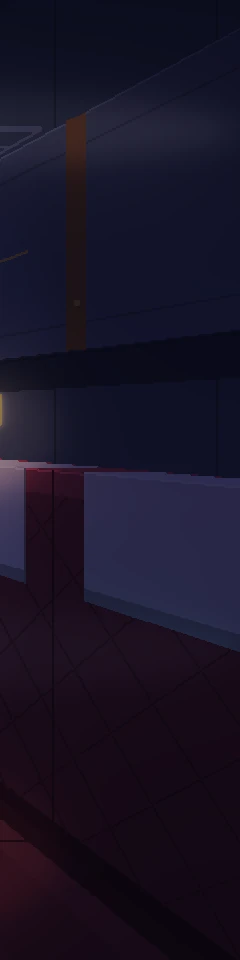
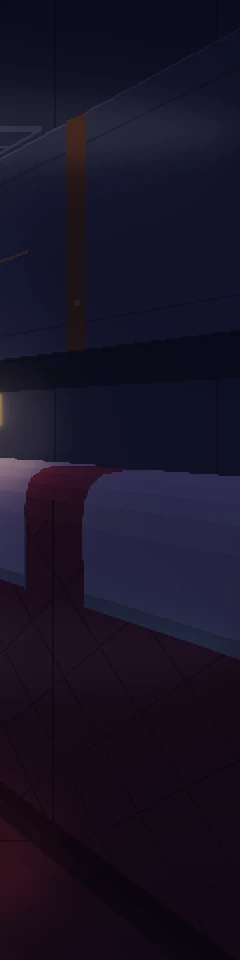
art(1.2): round the benches' edges
The benches were built from flat planes meeting at lines, and read as hard
blocks rather than upholstery. The cushion and the top of the backrest are now
cross-sections swept along the bench: the cushion's top rolls over a soft
shoulder down its front, and the backrest's face rolls over into its top, each
corner taken in several short segments a step lighter or darker than the last.
The headrest covers are draped over the same curve instead of folded at a
right angle, and the hard highlight line along the backrest's top is gone.

diff --git a/tools/art/room.py b/tools/art/room.py
@@ -768,6 +768,33 @@ def floor_and_ceiling(g):
         g.line([ri(P(-HW, C, z)), ri(P(HW, C, z))], mul(CEIL, 0.7))
 
 
+def extrude(g, s, profile, shades, base, z0=None, z1=Z_NEAR):
+    """A cross-section swept along the bench. `profile` is a polyline of (X, Y)
+    points for the right-hand bench (mirrored by s) and `shades` gives one
+    brightness per segment, applied to `base`. Rounding an edge is a matter of
+    giving the profile a few short segments round the corner, each a step
+    lighter or darker: upholstery has no hard edges."""
+    for (xa, ya), (xb, yb), k in zip(profile, profile[1:], shades):
+        receding(g, s * xa, ya, s * xb, yb, mul(base, k), z0, z1)
+
+
+# Cross-sections. The cushion's top runs flat from the backrest, then rolls
+# over a soft shoulder down its front; the backrest's face rolls over into its
+# top the same way.
+CUSHION = [
+    (BACK_FACE, SEAT_H), (BACK_FACE - 0.05, SEAT_H), (BACK_FACE - 0.12, SEAT_H + 0.006),
+    (SEAT_INNER + 0.16, SEAT_H + 0.006), (SEAT_INNER + 0.10, SEAT_H), (SEAT_INNER + 0.06, SEAT_H - 0.006),
+    (SEAT_INNER + 0.03, SEAT_H - 0.02), (SEAT_INNER + 0.01, SEAT_H - 0.045), (SEAT_INNER, SEAT_H - 0.075),
+    (SEAT_INNER + 0.012, SEAT_H - 0.105), (SEAT_INNER + 0.04, SEAT_H - 0.12),
+]
+CUSHION_SHADES = [0.5, 0.82, 0.9, 1.0, 1.14, 1.32, 1.18, 0.94, 0.72, 0.52]
+BACK_ROLL = [
+    (BACK_FACE, BACK_TOP - 0.10), (BACK_FACE + 0.004, BACK_TOP - 0.06), (BACK_FACE + 0.016, BACK_TOP - 0.03),
+    (BACK_FACE + 0.04, BACK_TOP - 0.01), (BACK_FACE + 0.075, BACK_TOP), (ROOM_HALF_WIDTH, BACK_TOP),
+]
+BACK_ROLL_SHADES = [0.9, 1.04, 1.22, 1.38, 1.26]
+
+
 def bench(g, s):
     """A bench along a side wall, s = -1 on the left and +1 on the right, from
     the window wall to beyond the edge of the scene: a base, a cushion with a
@@ -785,22 +812,15 @@ def bench(g, s):
     receding(g, s * (SEAT_INNER + 0.04), SEAT_H - 0.17, s * (SEAT_INNER + 0.04), SEAT_H - 0.11, mul(SEAT, 0.26))
     g.line([ri(P(s * (SEAT_INNER + 0.04), 0.04, D)), ri(P(s * (SEAT_INNER + 0.04), 0.04, Z_NEAR))], mul(SEAT, 0.6))
 
-    # cushion: front face, top, the roll along the front edge, the dip where
-    # people sit, and the crease against the backrest
-    receding(g, xi, SEAT_H - 0.11, xi, SEAT_H, mul(SEAT, 0.62))
-    receding(g, xb, SEAT_H, xi, SEAT_H, SEAT)
-    receding(g, s * (SEAT_INNER + 0.16), SEAT_H, s * (BACK_FACE - 0.12), SEAT_H, mul(SEAT, 0.9))
-    receding(g, s * (SEAT_INNER + 0.07), SEAT_H, xi, SEAT_H, mul(SEAT, 1.22))
-    receding(g, s * (SEAT_INNER + 0.02), SEAT_H, xi, SEAT_H, mul(SEAT, 1.5))
-    receding(g, xb, SEAT_H, s * (BACK_FACE - 0.05), SEAT_H, mul(SEAT, 0.5))
-    g.line([ri(P(xi, SEAT_H - 0.035, D)), ri(P(xi, SEAT_H - 0.035, Z_NEAR))], mul(SEAT, 0.4))  # piping
+    # cushion: a soft-shouldered cross-section swept along the bench
+    extrude(g, s, CUSHION, CUSHION_SHADES, SEAT)
 
     # backrest face with the crease at its foot
     receding(g, xb, SEAT_H, xb, BACK_TOP, face)
     receding(g, xb, SEAT_H, xb, SEAT_H + 0.035, mul(SEAT, 0.42))
     # diamond quilting: two families of diagonals on the face, and a button
     # where they cross
-    y0, y1, pitch = SEAT_H + 0.035, BACK_TOP - 0.05, 0.17
+    y0, y1, pitch = SEAT_H + 0.035, BACK_TOP - 0.10, 0.17
     n = 0
     while True:
         c = Z_NEAR - (y1 - y0) + n * pitch
@@ -831,26 +851,24 @@ def bench(g, s):
                 g.px(bx, by - 1, mul(SEAT, 1.25))
         k += 1
 
-    # the rolled top: a lit band along the top of the face, and the top surface
-    receding(g, xb, BACK_TOP - 0.05, xb, BACK_TOP, mul(SEAT, 1.05))
-    receding(g, s * HW, BACK_TOP, xb, BACK_TOP, mul(SEAT, 1.3))
-    g.line([on_face(D, BACK_TOP), on_face(Z_NEAR, BACK_TOP)], mul(SEAT, 1.6))
+    # the top of the backrest rolls over instead of ending in an edge
+    extrude(g, s, BACK_ROLL, BACK_ROLL_SHADES, SEAT)
 
     # seat divisions, across the cushion and up the backrest
     for z in (1.42, 0.84):
         g.line([on_top(SEAT_INNER, z), on_top(BACK_FACE, z)], mul(SEAT, 0.5))
-        g.line([on_face(z, SEAT_H), on_face(z, BACK_TOP)], mul(SEAT, 0.45))
-        g.line([ri(P(xi, SEAT_H - 0.11, z)), ri(P(xi, SEAT_H, z))], mul(SEAT, 0.4))
+        g.line([on_face(z, SEAT_H), on_face(z, BACK_TOP - 0.06)], mul(SEAT, 0.45))
+        g.line([ri(P(xi, SEAT_H - 0.105, z)), ri(P(s * (SEAT_INNER + 0.03), SEAT_H - 0.02, z))], mul(SEAT, 0.45))
 
-    # headrest covers: one per seat, wrapped over the roll, with a hem
+    # headrest covers: one per seat, draped over the roll so they follow its
+    # curve, with a hem along the bottom
     cloth = (204, 198, 222)
+    drape = [(BACK_FACE, BACK_TOP - 0.25), (BACK_FACE, BACK_TOP - 0.225)] + [(x - 0.004, y + 0.004) for x, y in BACK_ROLL]
+    drape[2] = (BACK_FACE - 0.004, BACK_TOP - 0.10)
+    tones = [0.7, 0.9] + [0.96, 1.04, 1.12, 1.2, 1.14]
     for z0, z1 in ((1.94, 1.5), (1.34, 0.92), (0.76, Z_NEAR)):
-        quad(g, [(xb, BACK_TOP - 0.24, z0), (xb, BACK_TOP, z0), (xb, BACK_TOP, z1), (xb, BACK_TOP - 0.24, z1)], cloth)
-        quad(g, [(xb, BACK_TOP, z0), (s * HW, BACK_TOP, z0), (s * HW, BACK_TOP, z1), (xb, BACK_TOP, z1)], mul(cloth, 1.12))
-        quad(g, [(xb, BACK_TOP - 0.24, z0), (xb, BACK_TOP - 0.215, z0), (xb, BACK_TOP - 0.215, z1), (xb, BACK_TOP - 0.24, z1)], mul(cloth, 0.72))
-        g.line([on_face(z0, BACK_TOP), on_face(z1, BACK_TOP)], (244, 240, 252))
-        g.line([on_face(z1, BACK_TOP - 0.24), on_face(z1, BACK_TOP)], mul(cloth, 0.6))
-
+        extrude(g, s, drape, tones, cloth, z0, z1)
+        g.line([on_face(z1, BACK_TOP - 0.25), on_face(z1, BACK_TOP - 0.10)], mul(cloth, 0.62))
 
 # ------------------------------------------------------------------ Table and what is on it
 def table(g, rnd):
